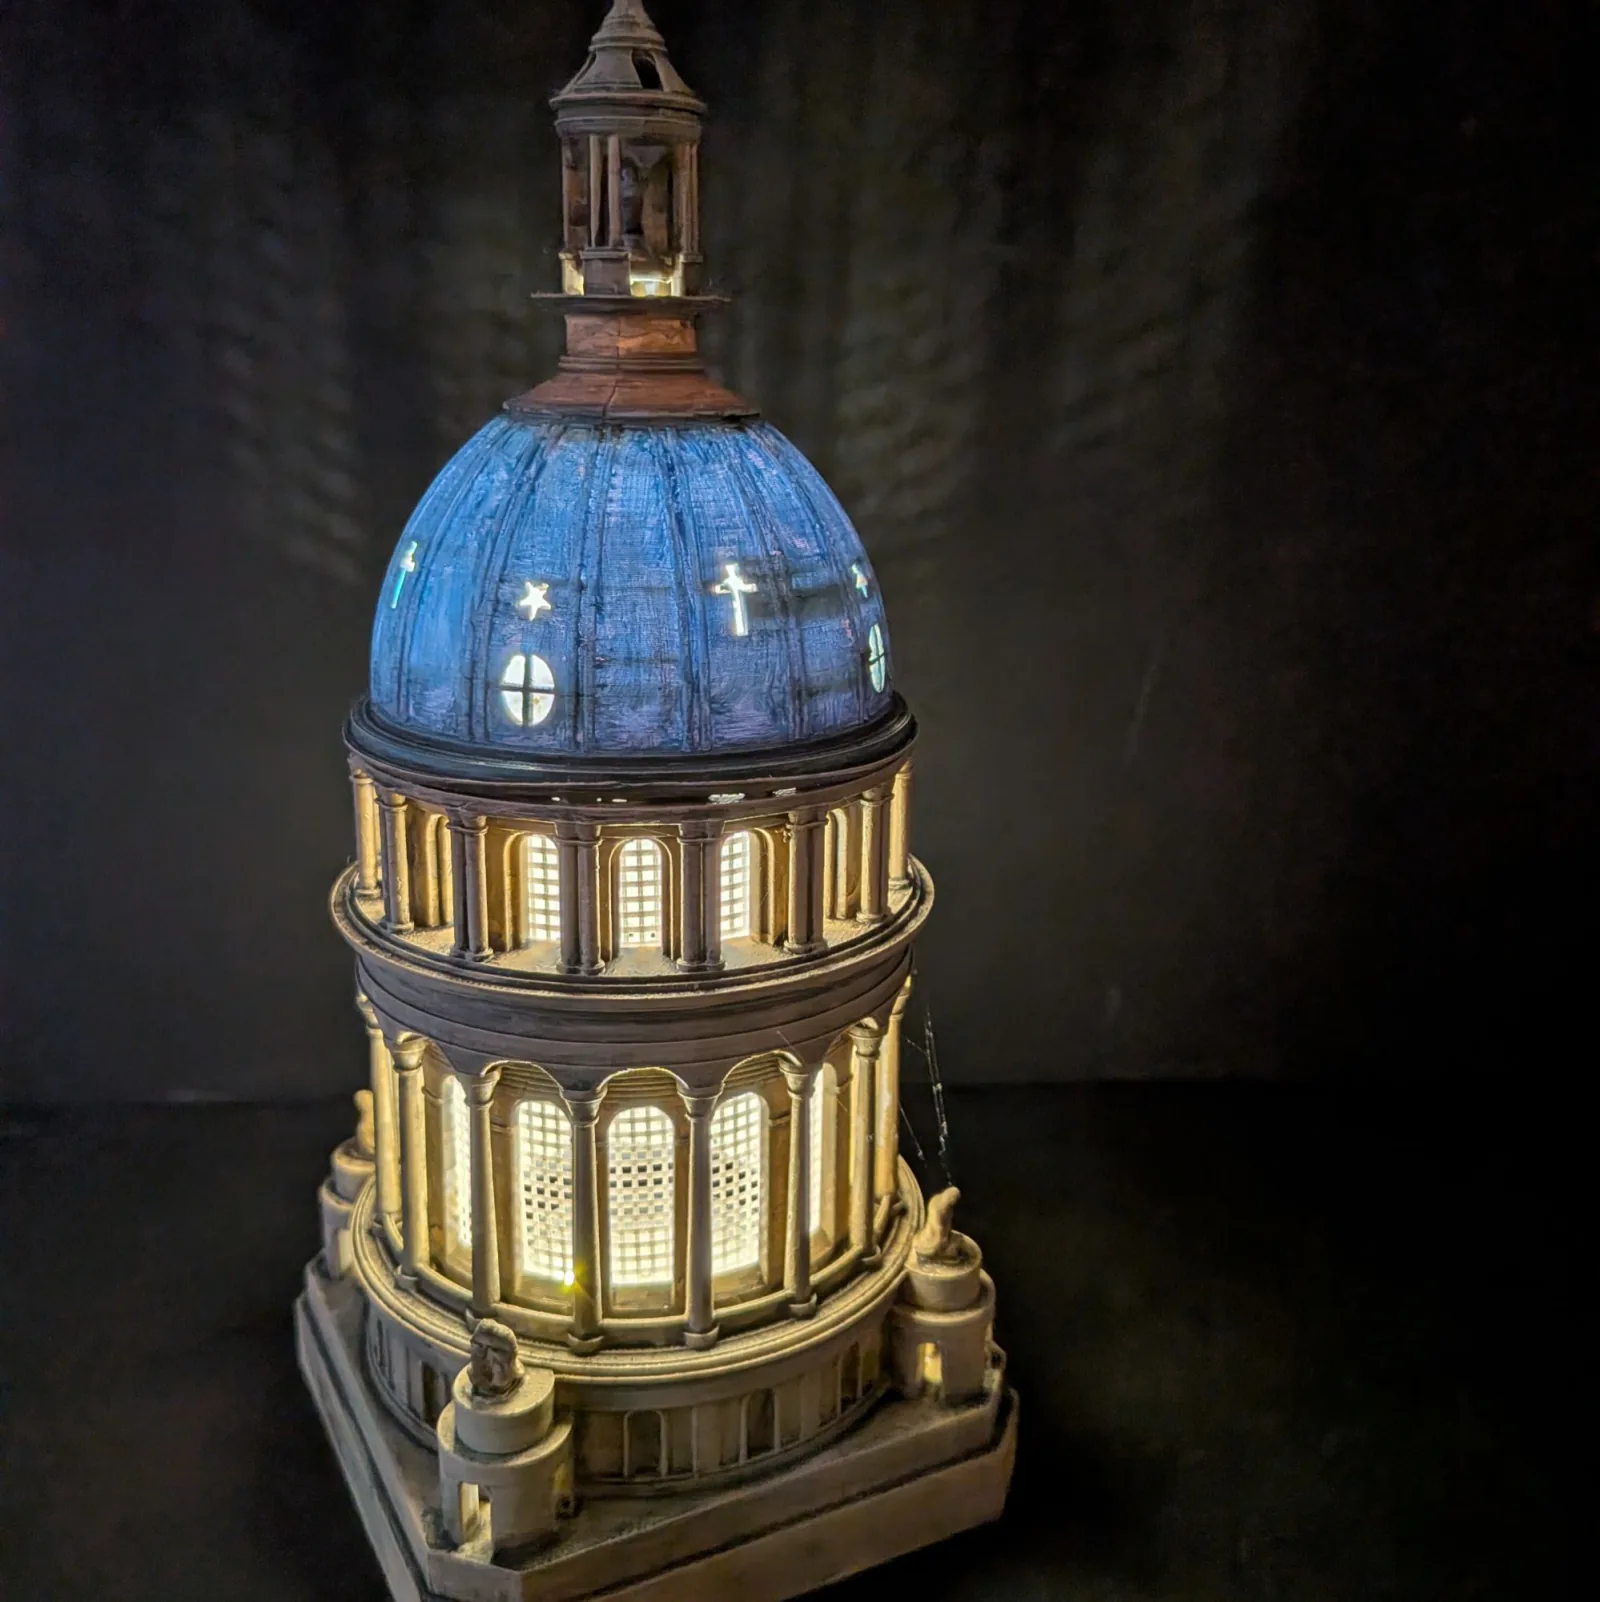
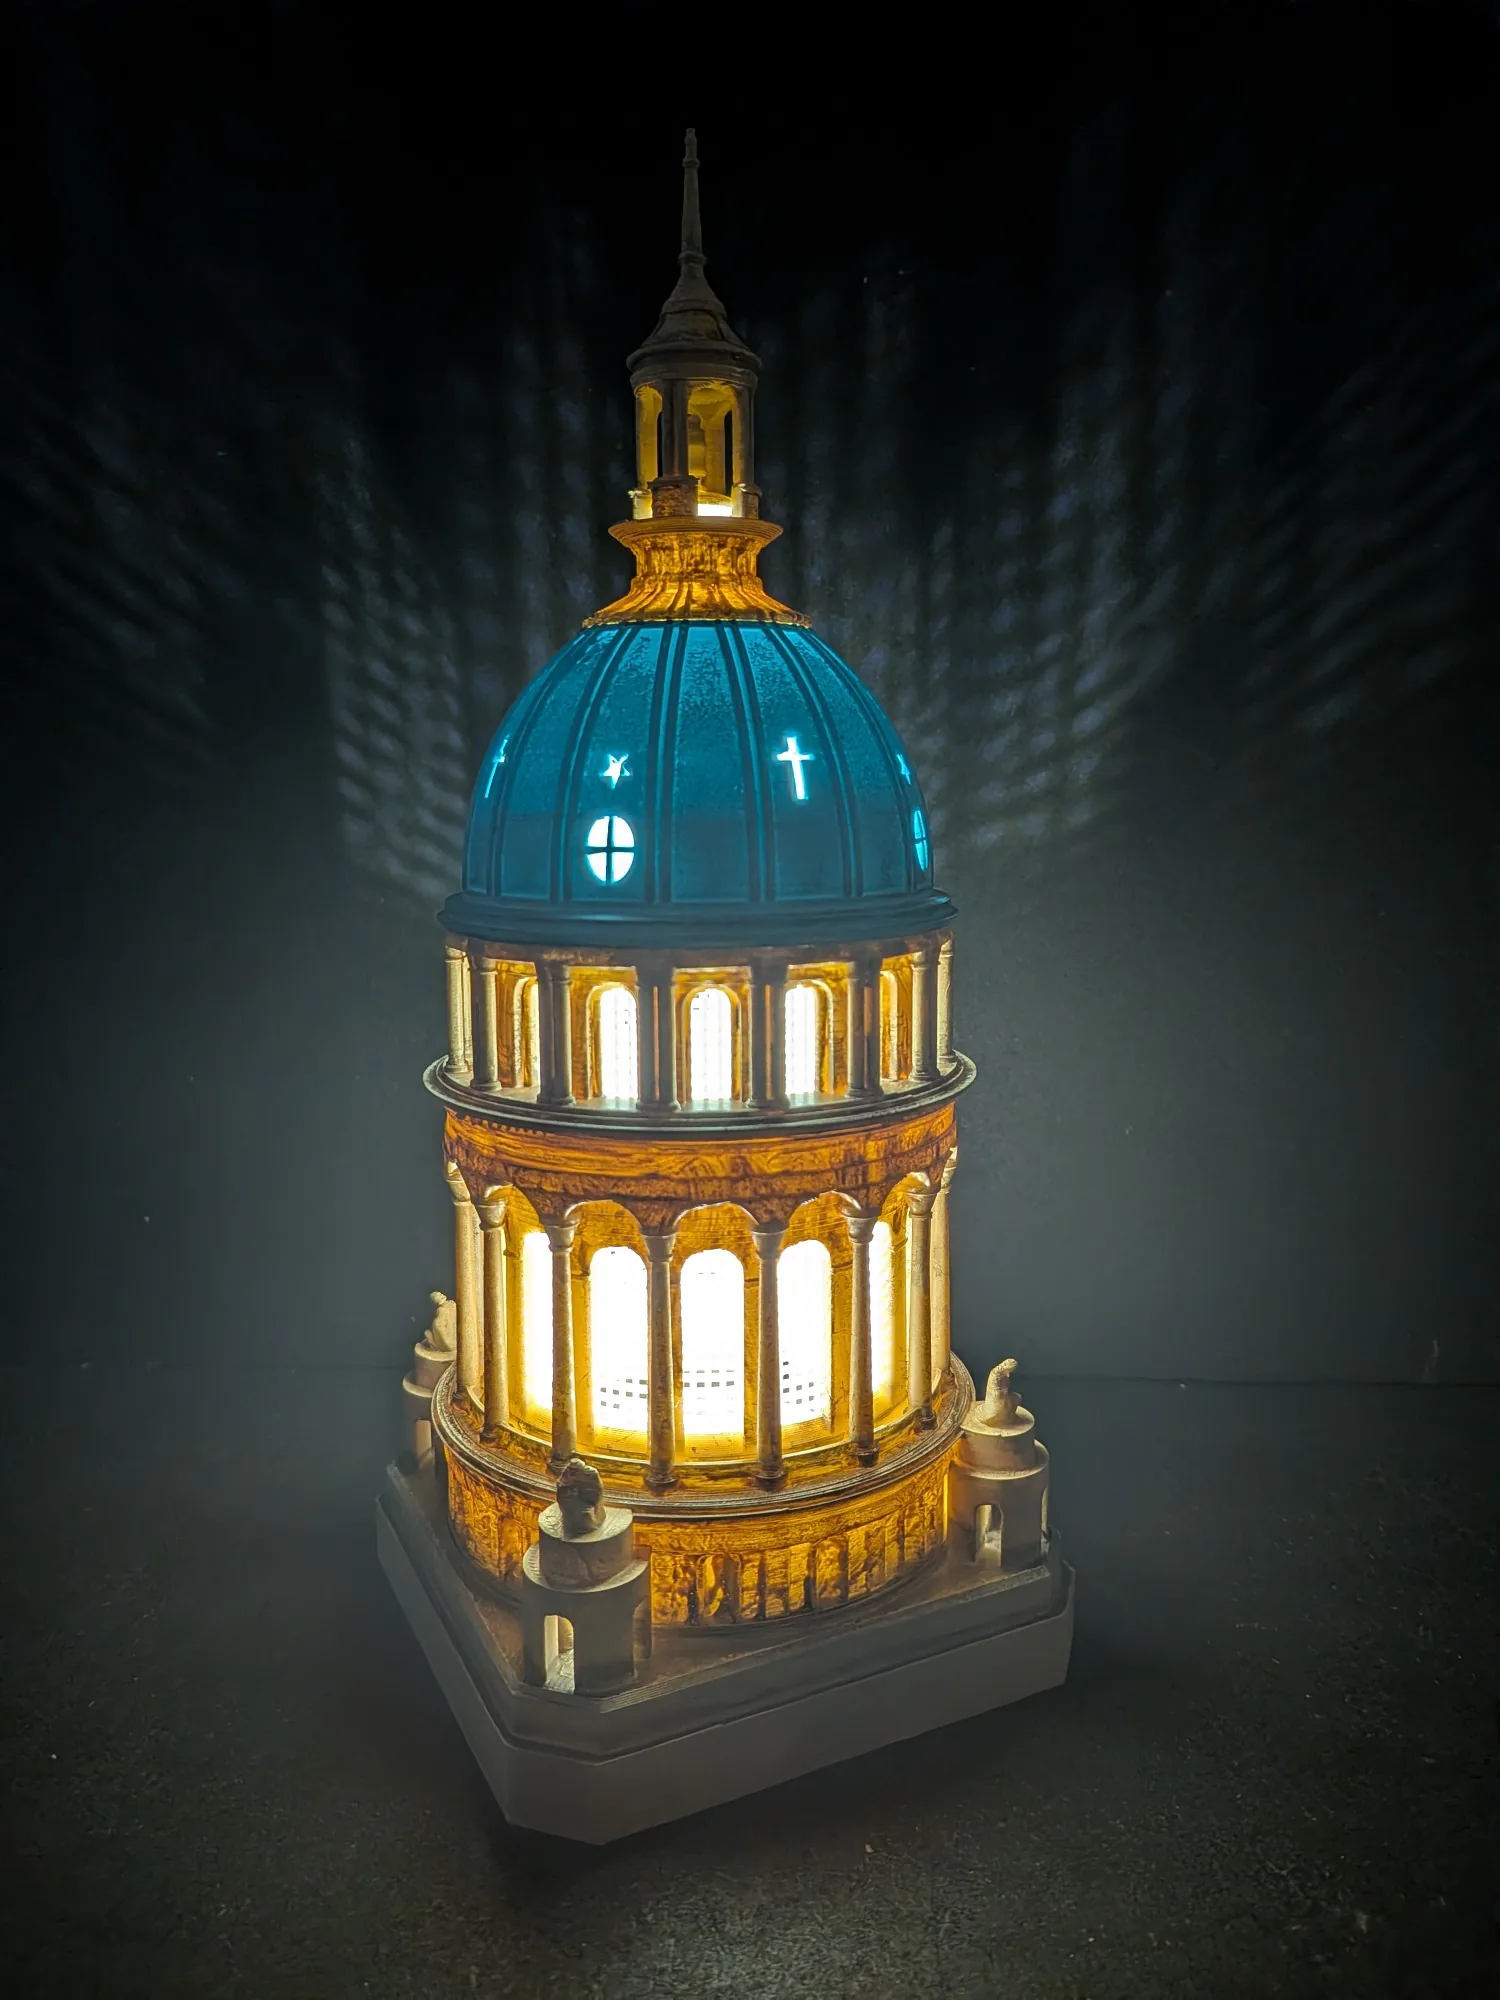
Basilique au 1:200, series de pieces uniques, nouvelles photos
Photos
Les trois vues de la Basilique au 1:300 sont refaites en cadrage vertical
(1500 x 2000). Les precedentes etaient carrees et coupaient le socle : ce
n'etait pas la mise en page, c'etait la photo.

La Basilique au 1:200 arrive avec ses trois vues, meme serie : allumee
dans le noir, allumee en pleine lumiere, eteinte en lumiere du jour.

Affichage des visuels
L'image principale d'une fiche combinait width: 100% et object-fit:
contain. Sur une photo carree cela ne se voyait pas ; des que la Basilique
est passee en cadrage vertical, l'image s'est retrouvee enfermee dans une
boite plus large qu'elle, avec deux bandes d'ardoise sur les cotes.
Desormais max-width et max-height bornent sans imposer de proportion, et
la boite prend exactement la taille de l'image.

Basilique au 1:200
250 EUR, 33 cm de haut sur base carree de 13,5 cm, impression 3D PLA
peinte a la main, eclairage integre, certificat d'authenticite,
fabrication 5 jours. Frais de port a calculer. Placee avant la 1:300 :
deux tailles du meme objet, les separer n'aurait aucun sens.

Les dimensions s'ecrivent en centimetres, hauteur d'abord, selon la
convention du monde de l'art. Laurent travaille en millimetres a
l'atelier ; la conversion se fait au moment d'ecrire la fiche.

PLA est ajoute a la technique de la 1:300, qui disait seulement
impression 3D.

Series de pieces uniques
Les veilleuses vitrail ne sont pas sept exemplaires d'un meme objet, mais
[…]

diff --git a/assets/js/boutique.js b/assets/js/boutique.js
@@ -73,6 +73,103 @@ function construireVisuels(produit) {
 
 
 /* --------------------------------------------------------------------------
+   Les séries de pièces uniques
+   Les veilleuses vitrail ne sont pas sept exemplaires d'un même objet :
+   ce sont sept objets différents vendus sous un même intitulé. Une fiche
+   porte donc les informations communes — technique, dimensions, prix,
+   délai — et une grille en dessous donne le choix, pièce par pièce.
+
+   Chaque pièce a son propre lien de paiement. C'est la conséquence directe
+   de l'unicité : avec un seul lien pour sept objets, deux acheteurs peuvent
+   payer le même le même jour, et il faut en rembourser un.
+
+   Une pièce vendue reste affichée, marquée « Vendue ». On ne la retire pas :
+   la série garde son sens une fois épuisée, et l'acheteur voit que les
+   pièces partent.
+   -------------------------------------------------------------------------- */
+
+const estUneSerie = (produit) =>
+  Array.isArray(produit.variantes) && produit.variantes.length > 0;
+
+
+function construireVariante(produit, variante) {
+  const bloc = document.createElement("li");
+  bloc.className = "variante";
+
+  const total = produit.edition?.total ?? produit.variantes.length;
+
+  /* La photo est le seul moyen de choisir entre des pièces uniques. Tant
+     qu'elle manque, on montre un emplacement plutôt que rien : le visiteur
+     voit la série entière, et laquelle n'est pas encore photographiée. */
+  if (variante.image?.fichier) {
+    const image = document.createElement("img");
+    image.className = "variante__image";
+    if (variante.image.largeur) image.width = variante.image.largeur;
+    if (variante.image.hauteur) image.height = variante.image.hauteur;
+    image.alt = variante.image.alt ?? "";
+    image.decoding = "async";
+    image.loading = "lazy";
+    image.src = DOSSIER_IMAGES + variante.image.fichier;
+    bloc.append(image);
+  } else {
+    const attente = document.createElement("div");
+    attente.className = "variante__attente mono";
+    attente.textContent = "Photo à venir";
+    bloc.append(attente);
+  }
+
+  const numero = document.createElement("p");
+  numero.className = "variante__numero mono";
+  numero.textContent = `N° ${variante.numero} sur ${total}`;
+  bloc.append(numero);
+
+  const etat = document.createElement("p");
+  etat.className = "variante__etat mono";
+
+  if (variante.vendue) {
+    etat.classList.add("variante__etat--vendue");
+    etat.textContent = "Vendue";
+  } else if (produit.prix != null && variante.lienStripe) {
+    const bouton = document.createElement("a");
+    bouton.className = "bouton";
+    bouton.href = variante.lienStripe;
+    bouton.rel = "noopener";
+    bouton.textContent = "Choisir";
+    /* Sept boutons « Choisir » identiques dans une grille : sans ce
+       complément, rien ne dit au lecteur d'écran lequel il active. */
+    bouton.setAttribute("aria-label", `Choisir la veilleuse n° ${variante.numero} sur ${total}`);
+    etat.append(bouton);
+  } else {
+    etat.textContent = "Disponible";
+  }
+
+  bloc.append(etat);
+  return bloc;
+}
+
+
+function construireSerie(produit) {
+  const bloc = document.createElement("div");
+  bloc.className = "produit__serie";
+
+  const intitule = document.createElement("h3");
+  intitule.className = "mono mono--etiquette produit__serie-titre";
+  intitule.textContent = "Choisir une pièce";
+  bloc.append(intitule);
+
+  const liste = document.createElement("ul");
+  liste.className = "serie";
+
+  for (const variante of produit.variantes) {
+    liste.append(construireVariante(produit, variante));
+  }
+
+  bloc.append(liste);
+  return bloc;
+}
+
+
+/* --------------------------------------------------------------------------
    Les mentions obligatoires
    Le §10 impose que chaque fiche affiche l'édition, ce qui est inclus, le
    délai de fabrication, les frais de port et les conditions de retour. Une
@@ -103,14 +200,32 @@ function construireMentions(produit) {
   ajouter("Dimensions", produit.dimensions);
 
   if (produit.edition?.numerotee) {
-    ajouter("Édition", produit.edition.total
-      ? `Numérotée, ${produit.edition.total} exemplaires`
-      : "Numérotée");
+    /* « 7 exemplaires » conviendrait à sept copies du même objet. Une série
+       de pièces uniques, c'est l'inverse : sept pièces différentes, qui se
+       trouvent porter un numéro. La phrase doit le dire, sinon l'acheteur
+       croit choisir entre des exemplaires interchangeables. */
+    if (estUneSerie(produit)) {
+      ajouter("Édition", `Série numérotée de ${produit.edition.total ?? produit.variantes.length}, pièces uniques`);
+    } else {
+      ajouter("Édition", produit.edition.total
+        ? `Numérotée, ${produit.edition.total} exemplaires`
+        : "Numérotée");
+    }
   }
 
   if (produit.inclus?.length) ajouter("Inclus", produit.inclus.join(" · "));
 
+  /* Deux réalités, un seul emplacement. Une pièce fabriquée à la commande
+     annonce un délai de fabrication ; une pièce déjà faite — les séries
+     uniques, terminées avant la mise en vente — annonce un délai
+     d'expédition. Une fiche porte l'un ou l'autre, jamais les deux, et
+     ajouter() saute la ligne dont la valeur manque.
+
+     Ce n'est pas cosmétique : la vente à distance oblige à indiquer une
+     date ou un délai de livraison avant le paiement. « Rien à fabriquer »
+     ne dispense pas d'annoncer sous combien de temps le colis part. */
   ajouter("Fabrication", produit.delaiFabrication);
+  ajouter("Expédition", produit.delaiExpedition);
   ajouter("Livraison", produit.fraisPort);
   ajouter("Retour", produit.retour);
 
@@ -121,6 +236,27 @@ function construireMentions(produit) {
 function construireAchat(produit) {
   const zone = document.createElement("p");
   zone.className = "produit__achat";
+
+  /* Une série se commande pièce par pièce : le bouton vit sur chaque
+     vignette, jamais ici. Cette zone ne porte que le prix, et le renvoi au
+     courriel tant qu'aucune pièce n'a son lien de paiement. */
+  if (estUneSerie(produit)) {
+    const prix = document.createElement("span");
+    prix.className = "produit__prix mono";
+    prix.textContent = produit.prix != null
+      ? `${formaterPrix(produit.prix, produit.devise)} la pièce`
+      : "Tarif à venir";
+    zone.append(prix);
+
+    if (produit.variantes.every((variante) => !variante.lienStripe)) {
+      const contact = document.createElement("a");
+      contact.href = "contact.html";
+      contact.textContent = produit.prix != null ? "Commander par courriel" : "Se renseigner";
+      zone.append(contact);
+    }
+
+    return zone;
+  }
 
   const achetable = produit.disponible && produit.prix != null && produit.lienStripe;
 
@@ -199,6 +335,12 @@ function construireProduit(produit) {
   texte.append(construireAchat(produit));
 
   article.append(texte);
+
+  /* La grille des pièces est posée sous les deux colonnes, pas dans la
+     colonne de texte : sept vignettes dans une colonne étroite seraient
+     illisibles. */
+  if (estUneSerie(produit)) article.append(construireSerie(produit));
+
   return article;
 }
 

diff --git a/assets/css/composants.css b/assets/css/composants.css
@@ -686,23 +686,37 @@
   align-items: start;
 }
 
-/* max-height : la pièce en kit est photographiée en très haut format et
-   occupait deux écrans à elle seule. object-fit: contain plutôt que cover,
-   parce qu'on ne recadre pas une pièce ; le vide se remplit d'ardoise. */
+/* La proportion vient du fichier, jamais du CSS. Les deux plafonds bornent
+   l'image sans la déformer ni la recadrer : le navigateur la réduit jusqu'à
+   ce qu'elle tienne dans les deux, et la boîte prend exactement sa taille.
+
+   Le plafond de hauteur existe parce que la pièce en kit est photographiée
+   en très haut format et occupait deux écrans à elle seule.
+
+   La version précédente combinait width: 100% et object-fit: contain. Sur
+   une photo carrée on ne voyait rien ; dès que la Basilique est passée en
+   cadrage vertical, l'image s'est retrouvée enfermée dans une boîte plus
+   large qu'elle, avec deux bandes d'ardoise sur les côtés. Ne pas y revenir :
+   object-fit ne sert que si la boîte impose une proportion, et ici elle n'en
+   impose aucune. */
 .produit__image {
   grid-column: 1 / -1;
-  width: 100%;
-  height: auto;
+  max-width: 100%;
   max-height: 72vh;
-  object-fit: contain;
+  width: auto;
+  height: auto;
+  justify-self: start;
   background-color: var(--fond-souleve);
 }
 
 /* Les vues secondaires occupent un tiers de la largeur chacune : assez
-   grandes pour être lisibles, assez petites pour rester secondaires. */
+   grandes pour être lisibles, assez petites pour rester secondaires. Elles
+   remplissent leur colonne, d'où le retour à width: 100%. */
 .produit__image--secondaire {
   grid-column: span 1;
+  width: 100%;
   max-height: none;
+  justify-self: stretch;
 }
 
 
@@ -760,6 +774,76 @@
   font-weight: var(--graisse-accent);
   font-variant-numeric: tabular-nums;
   color: var(--texte);
+}
+
+
+/* --- Les séries de pièces uniques -----------------------------------------
+   Sept veilleuses différentes sous un même intitulé. La grille est posée
+   sous les deux colonnes de la fiche, sinon les vignettes se tasseraient
+   dans la colonne de texte.
+
+   Même discipline que la grille des œuvres : colonnes régulières, pas de
+   carte, pas d'ombre. Ce qui distingue une pièce d'une autre est sa photo,
+   pas un encadrement.                                                      */
+
+.produit__serie {
+  grid-column: 1 / -1;
+  margin-block-start: var(--espace-l);
+  padding-block-start: var(--espace-l);
+  border-block-start: var(--filet-epaisseur) solid var(--filet-couleur);
+}
+
+.produit__serie-titre {
+  margin-block-end: var(--espace-m);
+  color: var(--texte-secondaire);
+}
+
+.serie {
+  display: grid;
+  grid-template-columns: repeat(auto-fill, minmax(150px, 1fr));
+  gap: var(--espace-m);
+  list-style: none;
+  align-items: start;
+}
+
+.variante__image {
+  width: 100%;
+  height: auto;
+  background-color: var(--fond-souleve);
+}
+
+/* Même emplacement en attente que dans le portfolio : une zone d'ardoise à
+   la bonne proportion, pour que la grille ne saute pas quand les photos
+   arriveront. */
+.variante__attente {
+  display: flex;
+  align-items: center;
+  justify-content: center;
+  aspect-ratio: 1 / 1;
+  padding: var(--espace-2xs);
+  background-color: var(--fond-souleve);
+  border: var(--filet-epaisseur) solid var(--filet-couleur);
+  color: var(--texte-secondaire);
+  text-align: center;
+}
+
+.variante__numero {
+  margin-block-start: var(--espace-2xs);
+  color: var(--texte);
+}
+
+.variante__etat {
+  margin-block-start: var(--espace-2xs);
+  color: var(--texte-secondaire);
+}
+
+/* Une pièce vendue reste visible : la série garde son sens une fois
+   épuisée. Elle est seulement mise en retrait, jamais barrée — ce n'est
+   pas une erreur, c'est une vente. */
+.variante__etat--vendue {
+  color: var(--accent);
+  text-transform: uppercase;
+  letter-spacing: var(--interlettre-mono);
 }
 
 
